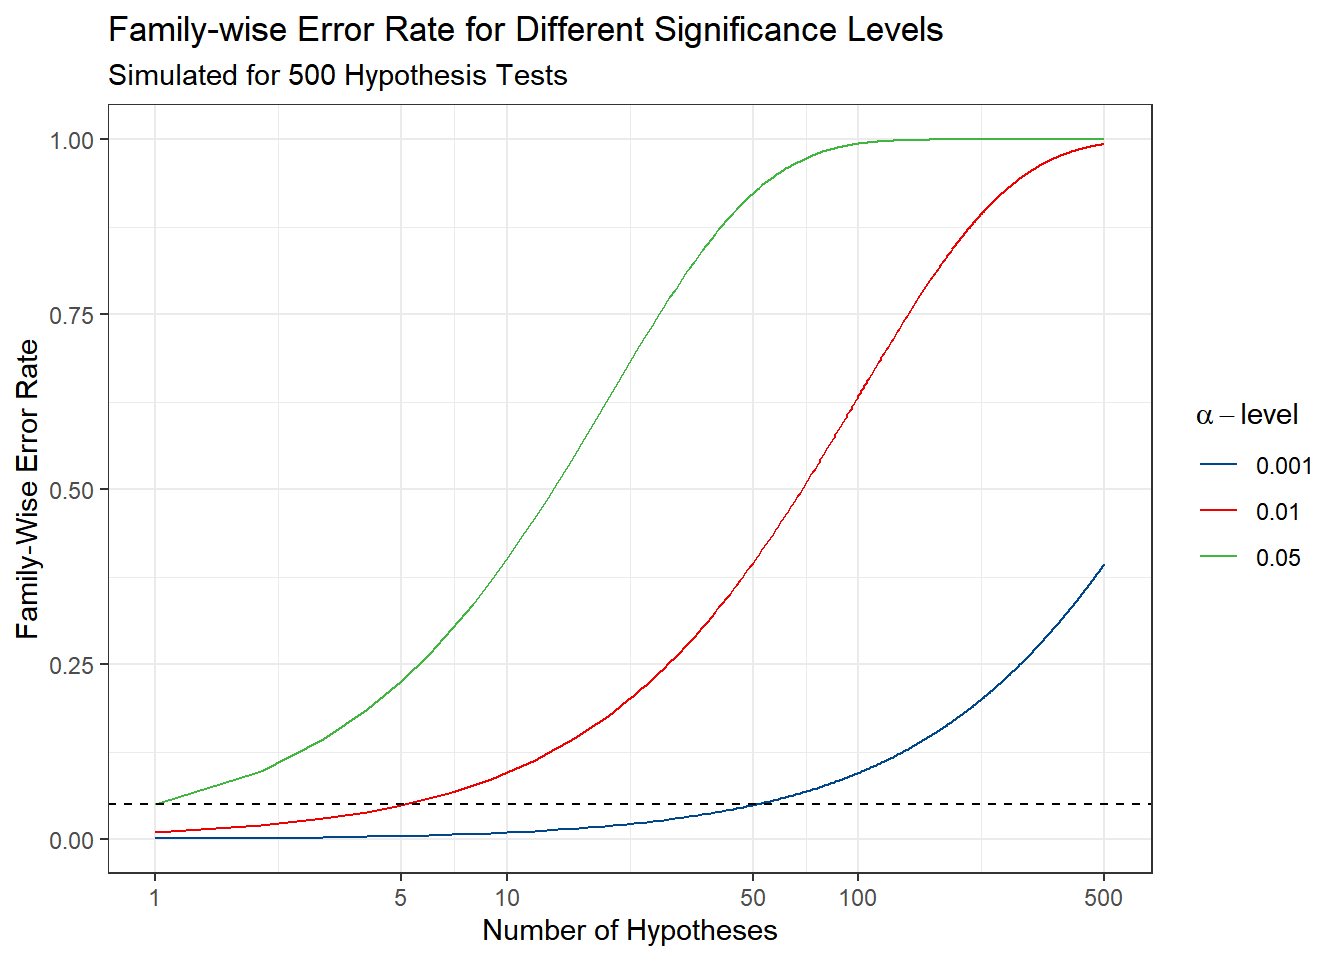
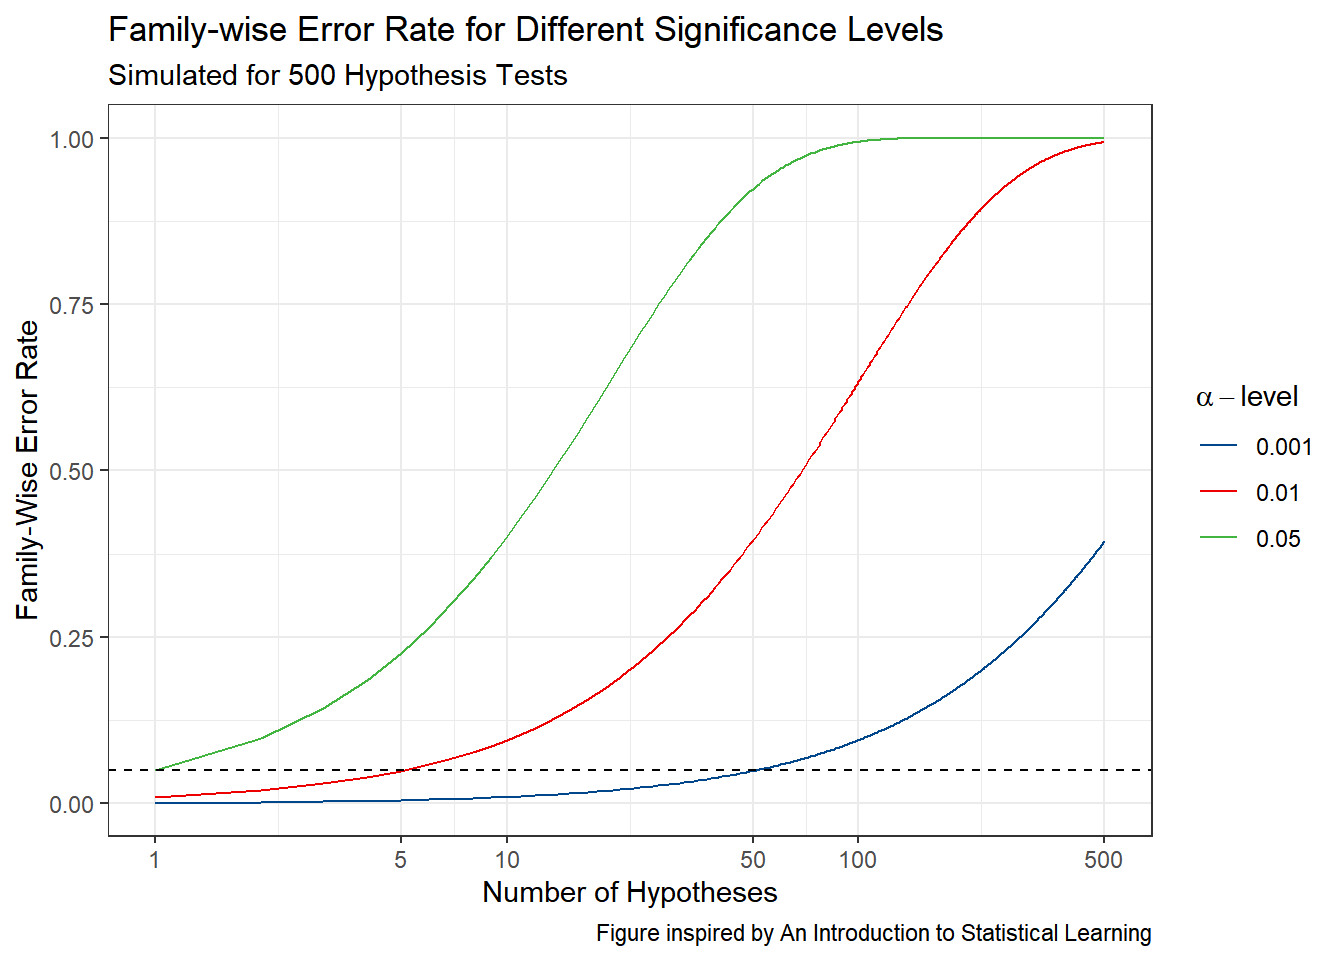
added caption

diff --git a/content/blog/05052024_family_wise_error_rate/index.md b/content/blog/05052024_family_wise_error_rate/index.md
@@ -36,7 +36,8 @@ fwer_data %>%
        subtitle = "Simulated for 500 Hypothesis Tests",
        x = "Number of Hypotheses",
        y = "Family-Wise Error Rate",
-       color = expression(alpha-level)) +
+       color = expression(alpha-level),
+       caption = "Figure inspired by An Introduction to Statistical Learning") +
   theme_bw() +
   geom_hline(yintercept = 0.05, linetype = "dashed", color = "black") +
   scale_x_log10(breaks = c(1, 5, 10, 50, 100, 500),
